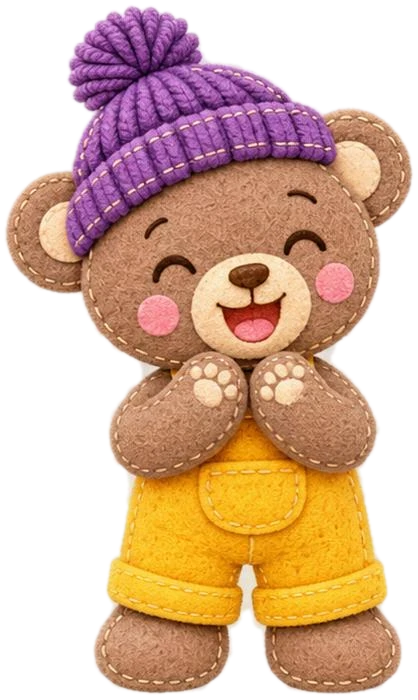
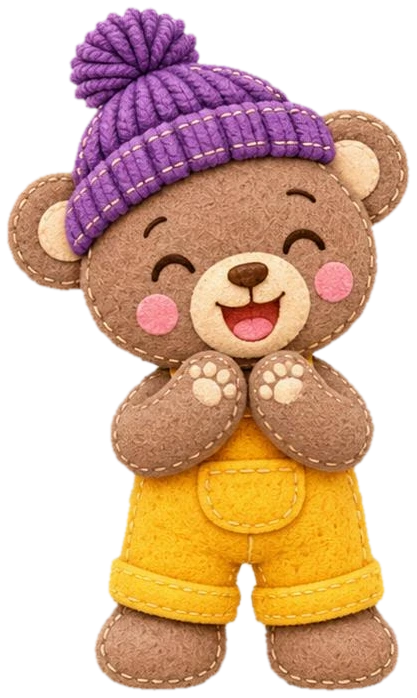
Baby Bear: tighter cutout without the pale haze edge; blink is just his closed eyes laid over his open ones
Claude-Session: https://claude.ai/code/session_01QQ5WvCb2WoykbmZV2rnxma

diff --git a/css/game.css b/css/game.css
@@ -77,8 +77,10 @@ button img { width: 100%; height: 100%; object-fit: contain; }
 
 /* ---------- 3. tidy-up ---------- */
 /* Baby Bear and his blink picture share one box and never move (moving him left trails on iPad) */
-#tidy-bear, #tidy-bear-blink { left: 533px; bottom: 418px; width: 300px; height: 360px; object-fit: contain; object-position: 50% 100%; z-index: 1; }
-#tidy-bear-blink { visibility: hidden; pointer-events: none; }
+#tidy-bear { left: 572px; top: 246px; width: 222px; height: 360px; object-fit: contain; object-position: 50% 100%; z-index: 1; }
+/* the blink is only his closed eyes (ChatGPT), sized to sit exactly on his open eyes; no shadow */
+#tidy-bear-blink { position: absolute; left: 623.5px; top: 343.7px; width: 144px; height: 66.9px; z-index: 1;
+  visibility: hidden; pointer-events: none; }
 #boxes .box { z-index: 2; }
 .box { position: absolute; width: 250px; height: 252px; }
 .box img { width: 100%; height: 100%; }

diff --git a/js/game.js b/js/game.js
@@ -308,7 +308,7 @@
   // still and blinks now and then. The blink is a second ChatGPT picture laid
   // exactly on top and shown for a moment, so nothing moves or redraws.
   var bearBlink = document.createElement('img');
-  bearBlink.className = 'char'; bearBlink.id = 'tidy-bear-blink';
+  bearBlink.id = 'tidy-bear-blink';
   bearBlink.src = 'art/baby-bear-blink.webp'; bearBlink.alt = '';
   bear.parentNode.insertBefore(bearBlink, bear.nextSibling);
   new Image().src = 'art/baby-bear-clap.webp';

diff --git a/sw.js b/sw.js
@@ -1,6 +1,6 @@
 // Keeps Stuffie Town working offline after the first visit.
 // Bump VERSION whenever files change so the iPad picks up the new game.
-var VERSION = 'stuffie-v21';
+var VERSION = 'stuffie-v22';
 self.addEventListener('install', function () { self.skipWaiting(); });
 self.addEventListener('activate', function (e) {
   e.waitUntil(caches.keys().then(function (keys) {
